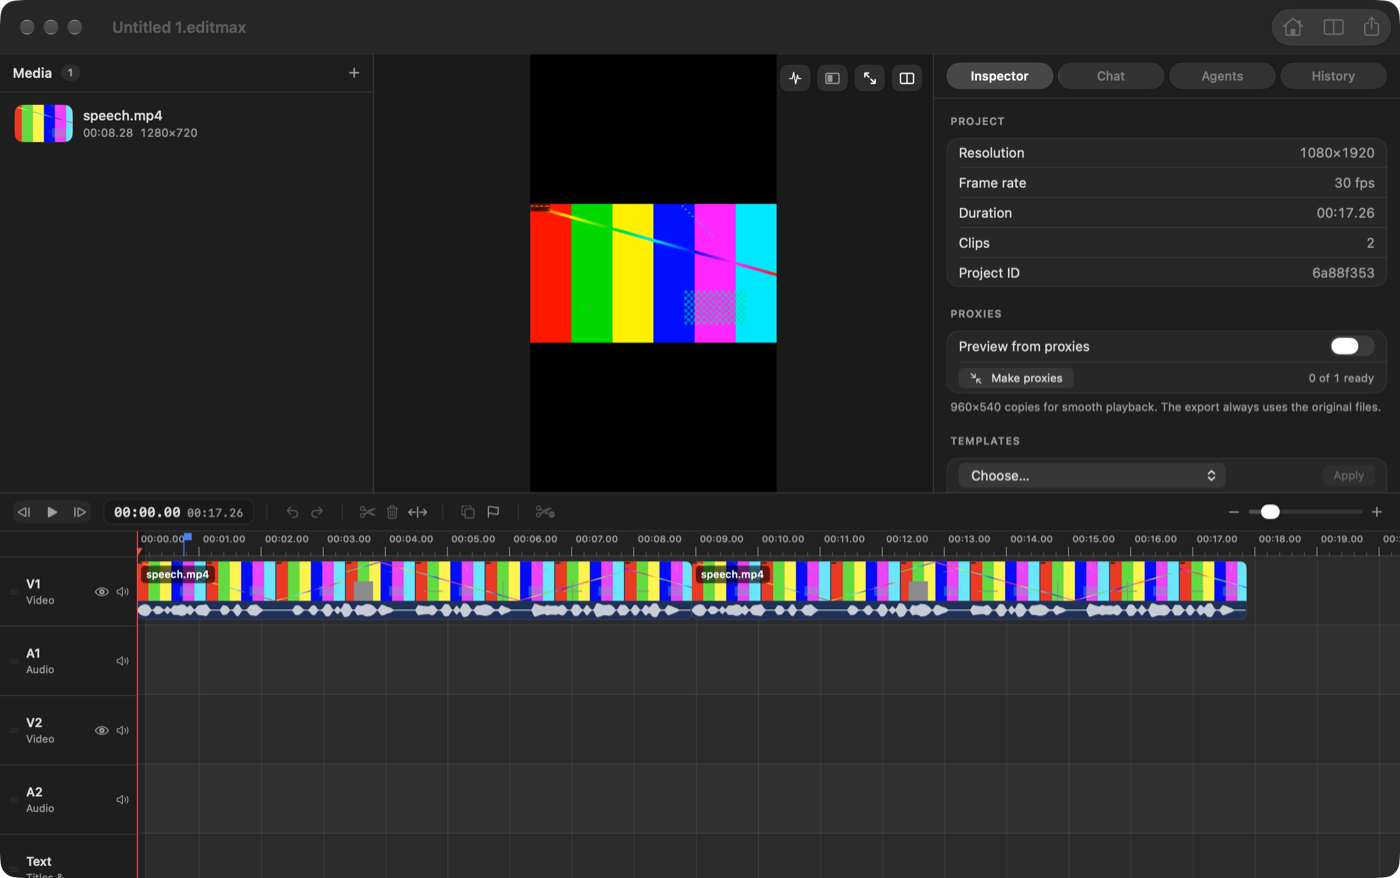
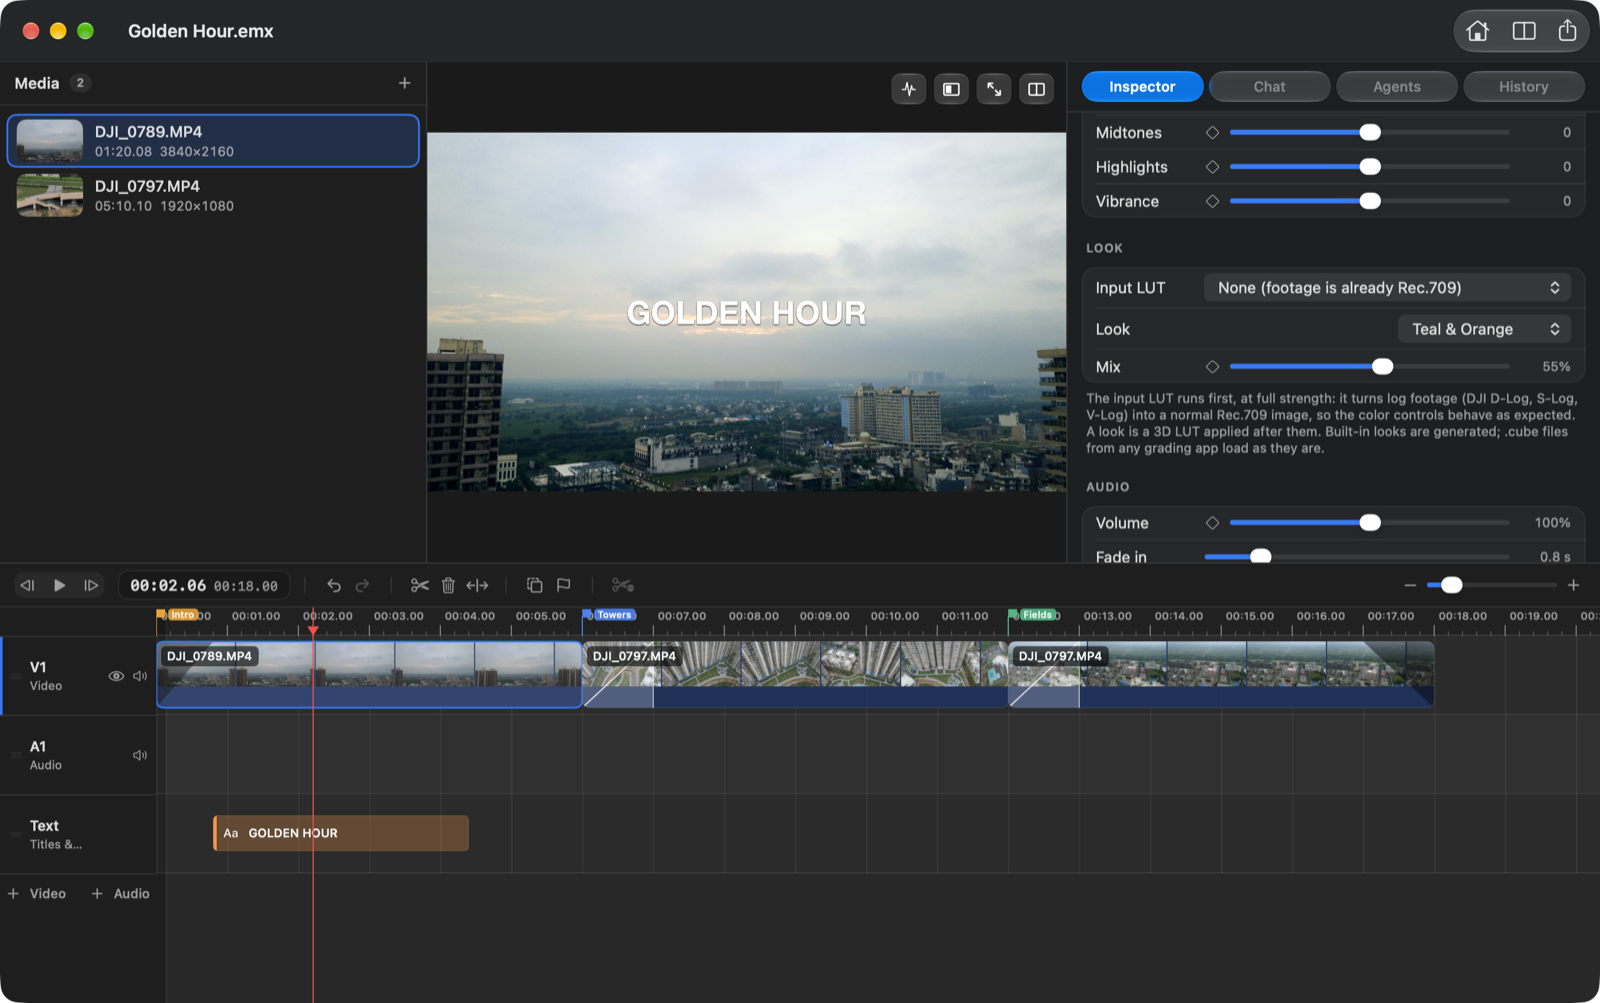
Texts never cover each other; README demo reshot on real footage
TextLayout measures a text's box with the rasterizer's font and wrapping: a text added where
another is on screen moves to the nearest free band (below on a tie) and the tool result says so;
the text inspector warns and offers Move clear; inspect_timeline lists textOverlaps; the Text
lane stacks concurrent bars into two sub-rows. Four tests.

README: window capture and a three-frame strip of the Golden Hour demo cut, a concrete chat
example, the overlap rule in the editing guide and in docs/INTERNALS.md.

diff --git a/EditMax/Engine/TextLayout.swift b/EditMax/Engine/TextLayout.swift
@@ -1,0 +1,78 @@
+import Foundation
+import AppKit
+
+/// Where texts land in the frame and in the Text lane, so two of them never sit on top of each other.
+/// The frame box comes from the same font, wrapping width and padding the rasterizer uses (`OverlayLayerBuilder.renderText`),
+/// measured without drawing.
+enum TextLayout {
+    /// The rect a text occupies in the frame, normalized (0–1, y down), centred on its (x, y).
+    static func box(_ t: TextOverlay, canvas: CGSize) -> CGRect {
+        let style = CaptionPresets.style(t.preset)
+        let font = NSFont(name: style.fontName, size: t.fontSize) ?? NSFont.boldSystemFont(ofSize: t.fontSize)
+        let maxWidth = (canvas.width * 0.9).rounded()
+        let str = NSAttributedString(string: style.uppercase ? t.text.uppercased() : t.text, attributes: [.font: font])
+        let used = str.boundingRect(with: NSSize(width: maxWidth, height: .greatestFiniteMagnitude), options: [.usesLineFragmentOrigin])
+        let pad = style.box?.padding ?? 0
+        let w = min(maxWidth, ceil(used.width) + 2 * pad + 8), h = ceil(used.height) + (style.box == nil ? 12 : pad + 4)
+        return CGRect(x: t.x - w / canvas.width / 2, y: t.y - h / canvas.height / 2, width: w / canvas.width, height: h / canvas.height)
+    }
+
+    static func overlapInTime(_ a: TextOverlay, _ b: TextOverlay) -> Bool { a.start < b.end - 0.001 && b.start < a.end - 0.001 }
+
+    /// True when the two texts are on screen together and their boxes intersect.
+    static func collide(_ a: TextOverlay, _ b: TextOverlay, canvas: CGSize) -> Bool {
+        overlapInTime(a, b) && box(a, canvas: canvas).insetBy(dx: 0, dy: 0.004).intersects(box(b, canvas: canvas))
+    }
+
+    struct Collision { let a: TextOverlay, b: TextOverlay; var start: Double { max(a.start, b.start) }; var end: Double { min(a.end, b.end) } }
+
+    /// Every pair of texts that sit on top of each other at some moment.
+    static func collisions(in texts: [TextOverlay], canvas: CGSize) -> [Collision] {
+        var out: [Collision] = []
+        for i in texts.indices { for j in texts.indices where j > i && collide(texts[i], texts[j], canvas: canvas) { out.append(Collision(a: texts[i], b: texts[j])) } }
+        return out
+    }
+
+    /// The texts `t` collides with, among `others`.
+    static func blockers(of t: TextOverlay, among others: [TextOverlay], canvas: CGSize) -> [TextOverlay] {
+        others.filter { $0.id != t.id && collide(t, $0, canvas: canvas) }
+    }
+
+    /// A vertical position for `t` that clears every text on screen with it, the nearest free band to its own y: below
+    /// first, then above, never off the frame. Nil when it already clears them or no band is free.
+    static func clearY(for t: TextOverlay, among others: [TextOverlay], canvas: CGSize) -> Double? {
+        let live = others.filter { $0.id != t.id && overlapInTime(t, $0) }
+        guard live.contains(where: { collide(t, $0, canvas: canvas) }) else { return nil }
+        let mine = box(t, canvas: canvas)
+        let gap = 0.015
+        var candidates: [Double] = []
+        for o in live {
+            let ob = box(o, canvas: canvas)
+            candidates.append(ob.maxY + gap + mine.height / 2)   // just below it
+            candidates.append(ob.minY - gap - mine.height / 2)   // just above it
+        }
+        let fits: (Double) -> Bool = { y in
+            guard y - mine.height / 2 >= 0.02, y + mine.height / 2 <= 0.98 else { return false }
+            var probe = t; probe.y = y
+            return !live.contains { collide(probe, $0, canvas: canvas) }
+        }
+        // Nearest band wins; within 3 % of the frame, below beats above (a subtitle belongs under its title).
+        return candidates.filter(fits).min { a, b in
+            let da = abs(a - t.y), db = abs(b - t.y)
+            return abs(da - db) < 0.03 ? a > b : da < db
+        }
+    }
+
+    /// Sub-row (0 or 1) of each text in the Text lane: concurrent texts take turns so their bars never cover each other.
+    /// Texts that overlap nothing in time stay on row 0; the lane shows two rows only while a row 1 exists.
+    static func laneRows(_ texts: [TextOverlay]) -> [UUID: Int] {
+        var rows: [UUID: Int] = [:]
+        var ends: [Double] = [-1, -1]   // when each sub-row is next free
+        for t in texts.sorted(by: { ($0.start, $0.end) < ($1.start, $1.end) }) {
+            let row = ends[0] <= t.start + 0.001 ? 0 : (ends[1] <= t.start + 0.001 ? 1 : (ends[0] <= ends[1] ? 0 : 1))
+            rows[t.id] = row
+            ends[row] = max(ends[row], t.end)
+        }
+        return rows
+    }
+}

diff --git a/EditMax/Engine/ToolExecutor.swift b/EditMax/Engine/ToolExecutor.swift
@@ -34,6 +34,8 @@ struct ToolExecutor {
         var tracks: [TrackInfo], clips: [ClipInfo], texts: [TextInfo], markers: [MarkerInfo], historyCount: Int
         var playhead: Double?
         var useProxies: Bool
+        /// Pairs of texts that cover each other at some moment ("'A' and 'B' overlap 1.4–4.4 s"); absent when none do.
+        var textOverlaps: [String]?
     }
 
     func inspectTimeline() -> TimelineSummary {
@@ -61,10 +63,16 @@ struct ToolExecutor {
             clips: clips.sorted { ($0.track, $0.start) < ($1.track, $1.start) },
             texts: p.texts.map { .init(id: $0.id.short, text: $0.text, start: r($0.start), end: r($0.end), preset: $0.preset, caption: $0.group?.short) },
             markers: p.markers.map { .init(id: $0.id.short, time: r($0.time), name: $0.name, color: $0.colorHex) },
-            historyCount: p.history.count, playhead: UIRegistry.shared.playheads[document.id]?().map(r), useProxies: p.settings.useProxies)
+            historyCount: p.history.count, playhead: UIRegistry.shared.playheads[document.id]?().map(r), useProxies: p.settings.useProxies,
+            textOverlaps: Self.textOverlaps(p))
     }
 
     struct AssetInfo: Codable { var id: String, name: String, kind: String, duration: Double, width: Int?, height: Int?, path: String }
+    static func textOverlaps(_ p: Project) -> [String]? {
+        let c = TextLayout.collisions(in: p.texts, canvas: p.settings.canvas)
+        return c.isEmpty ? nil : c.map { "'\($0.a.text.prefix(24))' and '\($0.b.text.prefix(24))' overlap \(String(format: "%.1f", $0.start))–\(String(format: "%.1f", $0.end)) s" }
+    }
+
     func listAssets() -> [AssetInfo] {
         project.assets.map { .init(id: $0.id.short, name: $0.name, kind: $0.kind.rawValue, duration: r($0.duration), width: $0.width, height: $0.height, path: $0.path) }
     }
@@ -177,6 +185,9 @@ struct ToolExecutor {
         document.apply("Add text \"\(text.prefix(20))\"", origin: origin) { p in
             t = p.addText(text, start: max(0, start), duration: duration, fontSize: fontSize ?? style.fontSize, colorHex: colorHex ?? style.color, x: x ?? 0.5, y: y ?? style.y)
             if preset != nil { p.texts[p.texts.count - 1].preset = style.name; t = p.texts[p.texts.count - 1] }
+            // Never on top of another text: a title added where a caption or another title already sits moves to the
+            // nearest free band (the UI and the tool result both say so).
+            if let clear = TextLayout.clearY(for: t, among: p.texts, canvas: p.settings.canvas) { p.texts[p.texts.count - 1].y = clear; t = p.texts[p.texts.count - 1] }
         }
         return t
     }

diff --git a/EditMaxTests/ToolExecutorTests.swift b/EditMaxTests/ToolExecutorTests.swift
@@ -106,3 +106,42 @@ final class ToolExecutorTests: XCTestCase {
         XCTAssertThrowsError(try x.applyTemplate("No such template"))
     }
 }
+
+/// Texts never sit on top of each other: the frame nudges a new one clear, the summary names overlaps, the lane stacks.
+@MainActor
+final class TextLayoutTests: XCTestCase {
+    private var doc: EditMaxDocument!
+    private var x: ToolExecutor { ToolExecutor(document: doc, origin: .agent) }
+    override func setUp() async throws { doc = EditMaxDocument() }
+
+    func testATitleAddedOverAnotherMovesToAFreeBand() throws {
+        let a = try x.addText("GOLDEN HOUR", start: 0, duration: 4, fontSize: 96, colorHex: nil, x: nil, y: 0.5)
+        let b = try x.addText("City at dusk", start: 1, duration: 3, fontSize: 34, colorHex: nil, x: nil, y: 0.5)
+        XCTAssertEqual(a.y, 0.5)
+        XCTAssertNotEqual(b.y, 0.5, "the second text is moved off the first")
+        XCTAssertGreaterThan(b.y, 0.5, "below first")
+        XCTAssertFalse(TextLayout.collide(a, b, canvas: doc.project.settings.canvas))
+        XCTAssertNil(x.inspectTimeline().textOverlaps)
+    }
+
+    func testTextsAtDifferentTimesKeepTheirPlace() throws {
+        _ = try x.addText("One", start: 0, duration: 2, fontSize: nil, colorHex: nil, x: nil, y: 0.5)
+        let b = try x.addText("Two", start: 2, duration: 2, fontSize: nil, colorHex: nil, x: nil, y: 0.5)
+        XCTAssertEqual(b.y, 0.5)
+    }
+
+    func testInspectTimelineReportsOverlapsMadeByHand() throws {
+        doc.project.texts = [TextOverlay(text: "A", start: 0, duration: 4, y: 0.5), TextOverlay(text: "B", start: 1, duration: 4, y: 0.5)]
+        let o = x.inspectTimeline().textOverlaps
+        XCTAssertEqual(o?.count, 1)
+        XCTAssertTrue(o![0].contains("'A' and 'B'"))
+        XCTAssertTrue(o![0].contains("1.0–4.0"))
+    }
+
+    func testLaneRowsStackOnlyConcurrentTexts() {
+        let a = TextOverlay(text: "a", start: 0, duration: 4), b = TextOverlay(text: "b", start: 1, duration: 2), c = TextOverlay(text: "c", start: 5, duration: 1)
+        let rows = TextLayout.laneRows([a, b, c])
+        XCTAssertEqual(rows[a.id], 0); XCTAssertEqual(rows[b.id], 1); XCTAssertEqual(rows[c.id], 0, "after both ended, back to the first row")
+        XCTAssertEqual(Set(TextLayout.laneRows([a, c]).values), [0], "nothing concurrent, nothing stacked")
+    }
+}

diff --git a/EditMax/UI/InspectorView.swift b/EditMax/UI/InspectorView.swift
@@ -830,6 +830,22 @@ struct TextInspector: View {
                         Slider(value: binding(\.y, "Text vertical"), in: 0...1).controlSize(.small).pointer().uiFrame("inspector.text.y")
                         Text("\(Int(text.y * 100))%").inspectorValue()
                     }
+                    // Two texts on screen together must not cover each other: name the other one and offer the fix.
+                    let blockers = TextLayout.blockers(of: text, among: document.project.texts, canvas: document.project.settings.canvas)
+                    if let other = blockers.first {
+                        HStack(spacing: 8) {
+                            Image(systemName: "exclamationmark.triangle.fill").foregroundStyle(.orange)
+                            Text("Covers \u{201C}\(other.text.prefix(24))\u{201D} \(Timecode.string(max(text.start, other.start)))–\(Timecode.string(min(text.end, other.end)))")
+                                .font(.system(size: 11)).foregroundStyle(.secondary).lineLimit(2)
+                            Spacer()
+                            Button("Move clear") {
+                                if let y = TextLayout.clearY(for: text, among: document.project.texts, canvas: document.project.settings.canvas) {
+                                    document.apply("Move text clear", origin: .user) { p in if let i = p.texts.firstIndex(where: { $0.id == text.id }) { p.texts[i].y = y } }
+                                }
+                            }.controlSize(.small).pointer().uiFrame("inspector.text.moveClear")
+                                .disabled(TextLayout.clearY(for: text, among: document.project.texts, canvas: document.project.settings.canvas) == nil)
+                        }
+                    }
                 }
                 InspectorCard("Timing") {
                     InspectorValueRow("Start", Timecode.string(text.start))

diff --git a/EditMax/MCP/EditMaxTools.swift b/EditMax/MCP/EditMaxTools.swift
@@ -314,8 +314,10 @@ enum EditMaxTools {
         case "close_gaps":
             try x.rippleTrack(try req("track")); return message("Gaps closed")
         case "add_text":
+            let askedY = try d("y") ?? CaptionPresets.resolve(s("preset")).y
             let t = try x.addText(try req("text"), start: try reqNum("start"), duration: try reqNum("duration"), fontSize: d("font_size"), colorHex: s("color"), x: d("x"), y: d("y"), preset: s("preset"))
-            return message("Added text \(t.id.short) from \(t.start)s to \(t.end)s")
+            let moved = abs(t.y - askedY) > 0.001 ? " (moved to y \(String(format: "%.2f", t.y)) so it does not cover another text on screen at the same time)" : ""
+            return message("Added text \(t.id.short) from \(t.start)s to \(t.end)s\(moved)")
         case "get_transcript":
             return try payload(try await x.getTranscript(asset: s("asset"), clip: s("clip"), language: s("language")))
         case "add_captions":

diff --git a/EditMax/UI/TimelineView.swift b/EditMax/UI/TimelineView.swift
@@ -287,7 +287,12 @@ struct TimelineView: View {
                 case .text:
                     ZStack(alignment: .leading) {
                         Color.clear.contentShape(Rectangle()).onTapGesture { location in seek(x: location.x); state.selectedClipIDs = []; state.selectedTextID = nil }
-                        ForEach(document.project.texts) { t in textView(t) }
+                        let rows = TextLayout.laneRows(document.project.texts)
+                        let stacked = rows.values.contains(1)
+                        ForEach(document.project.texts) { t in
+                            // Concurrent texts take two sub-rows so neither bar covers the other; alone, a bar sits centred.
+                            textView(t).offset(y: stacked ? (rows[t.id] == 1 ? 16.5 : -16.5) : 0)
+                        }
                     }
                     .frame(height: rowHeight)
                     .uiFrame("lane.Text")

diff --git a/EditMax/Model/Project.swift b/EditMax/Model/Project.swift
@@ -10,6 +10,7 @@ struct ProjectSettings: Codable, Equatable {
     var useProxies: Bool = false
 
     init(width: Int = 1920, height: Int = 1080, fps: Double = 30, useProxies: Bool = false) { self.width = width; self.height = height; self.fps = fps; self.useProxies = useProxies }
+    var canvas: CGSize { CGSize(width: width, height: height) }
     init(from decoder: Decoder) throws {
         let c = try decoder.container(keyedBy: CodingKeys.self)
         width = try c.decodeIfPresent(Int.self, forKey: .width) ?? 1920

diff --git a/README.md b/README.md
@@ -17,7 +17,7 @@
 </p>
 
 <p align="center">
-  <img src="docs/screenshot-editor.png" width="900" alt="The EditMax editor: media list, preview, inspector and timeline">
+  <img src="docs/screenshot-editor.png" width="920" alt="The EditMax editor: media list, preview with a title, the clip inspector on the Look section, and a timeline with markers and dissolves">
 </p>
 
 EditMax is a real editor first: tracks, trims, keyframes, color, audio, captions, multicam, 10-bit delivery, built on
@@ -25,6 +25,12 @@ AVFoundation and Core Image with its own compositor, so what you see in the prev
 every one of those operations to agents through a local [Model Context Protocol](https://modelcontextprotocol.io)
 server, and ships a chat panel that drives the coding agents you already have, with their own logins. No account,
 no backend, nothing leaves your Mac unless you ask a cloud model.
+
+<p align="center">
+  <img src="docs/demo-frames.jpg" width="920" alt="Three frames of the cut: a title over a city at dusk, apartment towers from above, fields at the edge of town">
+  <br>
+  <sub>The cut in the window above: three aerial shots, a Teal &amp; Orange look, two dissolves, fades and a title. An agent makes it in nine tool calls.</sub>
+</p>
 
 ## Why EditMax
 
@@ -95,8 +101,13 @@ Letter keys never fire while a text field has the focus.
 
 ### In the app
 
-Open the **Chat** tab in the inspector and type what you want: "cut the pauses, add bold captions, and give me a
-9:16 version". The chat runs one of the coding agents installed on your Mac through the bundled agent runtime, using
+Open the **Chat** tab in the inspector and type what you want:
+
+> Pick the three best moments, put a cross dissolve between them, warm it up with the Teal & Orange look,
+> add a title that says Golden Hour, and show me the result.
+
+The agent inspects the timeline, inserts and trims, sets the transitions and the look, adds the title, renders a
+frame to check its own work, then moves your playhead to it. The chat runs one of the coding agents installed on your Mac through the bundled agent runtime, using
 that agent's own login, so there is nothing to sign up for. The agent sees only EditMax's tools: file edits, shell
 commands and questions back to you are refused by policy, and every change it makes is a version you can restore.
 
@@ -161,6 +172,10 @@ Ducking (Project inspector) drops a music track under another track's clips with
 **Cleanup, then captions.** Remove silence listens to every audible clip, so a pause in the speech survives where
 music runs underneath; mute a track deliberately if you want it ignored. Remove filler words uses the transcript's
 word timings. Both ripple every track. Do cleanup before captions so the captions land on the final cut.
+
+**Titles and captions never collide.** A title added where a caption or another title is already on screen moves to
+the nearest free band, the inspector warns when two texts cover each other and offers to move one clear, and the
+Text lane stacks concurrent bars so both stay readable.
 
 **Transcript editing.** The clip inspector lists the clip's words: click a word, then another, to select a span and
 cut it. `search_transcript` and `cut_transcript` do the same for an agent.

diff --git a/docs/INTERNALS.md b/docs/INTERNALS.md
@@ -43,6 +43,10 @@ within 1.5 s (a slider drag) into one undo step and one version. Analysis caches
   later text and markers, so a separate voice track stays in sync.
 - Transcripts are stored per asset and mapped through each clip's source offset and speed, so they stay valid after
   any ripple.
+- Texts never cover each other. `TextLayout` measures a text's box in the frame with the rasterizer's font and
+  wrapping; a text added where another is already on screen moves to the nearest free band, below on a tie (the tool
+  result and the inspector say so), `inspect_timeline` lists `textOverlaps` made by hand, the text inspector offers
+  "Move clear", and the Text lane stacks concurrent bars into two sub-rows.
 
 ## Picture and sound
 
